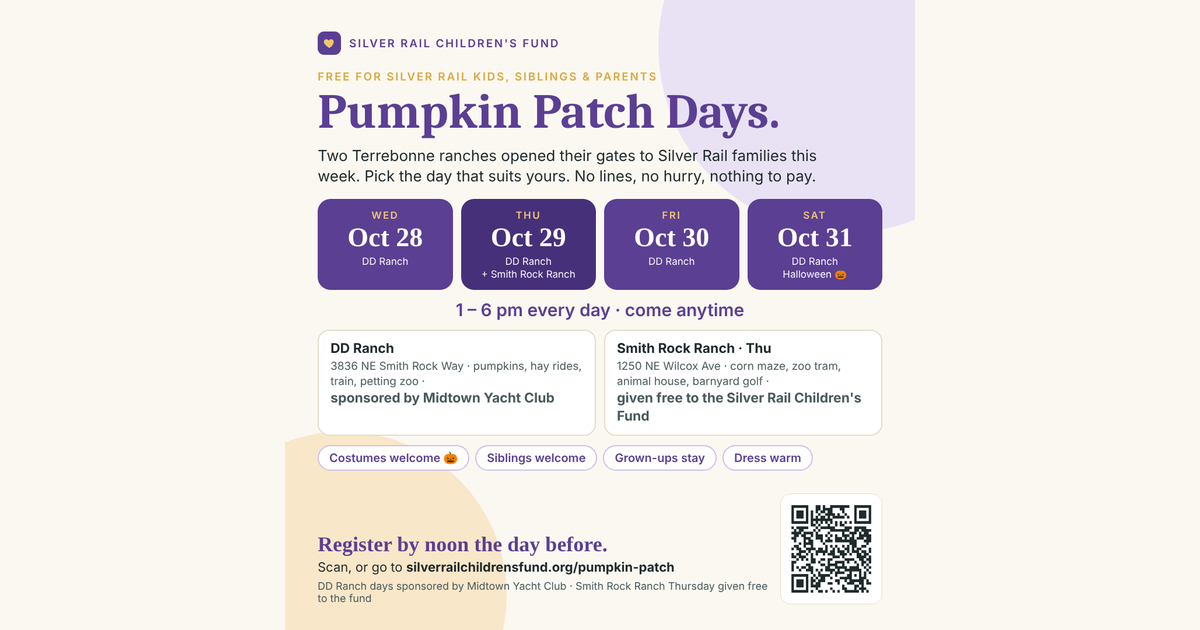
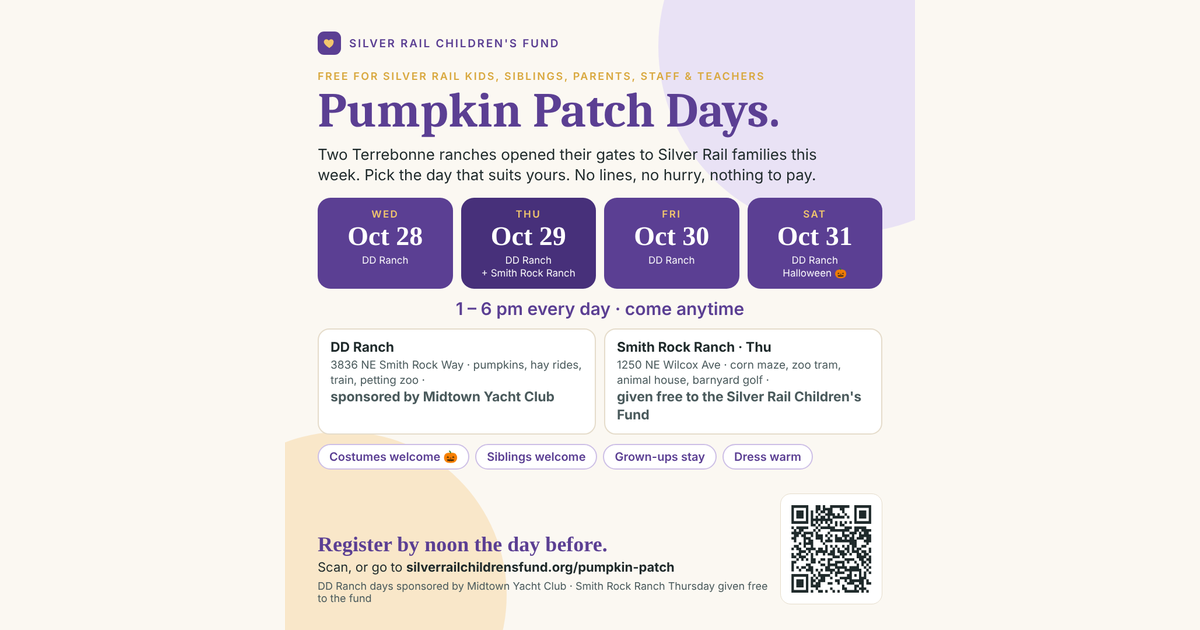
Staff and teachers and their children free too

diff --git a/pumpkin-patch.html b/pumpkin-patch.html
@@ -175,7 +175,7 @@ footer.sf .sf-legal a{color:var(--ink-2)}
   <div class="wrap">
     <div class="eyebrow">Pumpkin Patch Days · Terrebonne</div>
     <h1>Four afternoons at the patch, for Silver Rail families.</h1>
-    <p class="lede">Two Terrebonne ranches have opened their gates to Silver Rail families this week, <b>1 pm to 6 pm each day, free for Silver Rail kids, their siblings, and their parents</b>. <b>DD Ranch</b> is hosting Wednesday through Saturday, October 28–31, with Silver Rail kids' admission paid by Midtown Yacht Club. <b>Smith Rock Ranch</b> is hosting Thursday, October 29, as an in-kind donation to the fund. Pick the day that works best for your family. Come as you are.</p>
+    <p class="lede">Two Terrebonne ranches have opened their gates to Silver Rail families this week, <b>1 pm to 6 pm each day, free for Silver Rail kids, their siblings, and their parents, and for Silver Rail staff and teachers and their children</b>. <b>DD Ranch</b> is hosting Wednesday through Saturday, October 28–31, with Silver Rail kids' admission paid by Midtown Yacht Club. <b>Smith Rock Ranch</b> is hosting Thursday, October 29, as an in-kind donation to the fund. Pick the day that works best for your family. Come as you are.</p>
     <p class="lede" style="font-size:1.05rem">Why a pumpkin patch? Because for a child who was at Silver Rail on October 15, an ordinary fall afternoon with classmates is not a break from recovery. It is recovery. These are the fund's first outings, and they're the ones we set out to make happen on day one.</p>
     <a class="btn" href="#register">Register your family</a>
   </div>
@@ -186,18 +186,18 @@ footer.sf .sf-legal a{color:var(--ink-2)}
     <h2>Pick your day.</h2>
     <p class="note" style="max-width:720px">Pick the one day that suits your family best. Each day has a limit so the ranches can keep it unhurried; when a day fills, it'll show here as full.</p>
     <div class="sess" style="max-width:1140px;grid-template-columns:repeat(auto-fit,minmax(240px,1fr))">
-      <div class="card open"><span class="tag go">Open</span><b>Wed, Oct 28</b><p>1:00 – 6:00 pm<br>DD Ranch<br>3836 NE Smith Rock Way, Terrebonne<br>Free for Silver Rail kids, siblings &amp; parents · sponsored by Midtown Yacht Club</p></div>
-      <div class="card open"><span class="tag go">Open</span><b>Thu, Oct 29</b><p>1:00 – 6:00 pm<br>DD Ranch<br>3836 NE Smith Rock Way, Terrebonne<br>Free for Silver Rail kids, siblings &amp; parents · sponsored by Midtown Yacht Club</p></div>
-      <div class="card open"><span class="tag go">Open</span><b>Thu, Oct 29</b><p>1:00 – 6:00 pm<br>Smith Rock Ranch<br>1250 NE Wilcox Ave, Terrebonne<br>Free for Silver Rail kids, siblings &amp; parents · a gift from Smith Rock Ranch to the fund</p></div>
-      <div class="card open"><span class="tag go">Open</span><b>Fri, Oct 30</b><p>1:00 – 6:00 pm<br>DD Ranch<br>3836 NE Smith Rock Way, Terrebonne<br>Free for Silver Rail kids, siblings &amp; parents · sponsored by Midtown Yacht Club</p></div>
-      <div class="card open"><span class="tag go">Open</span><b>Sat, Oct 31</b><p>1:00 – 6:00 pm · Halloween<br>DD Ranch<br>3836 NE Smith Rock Way, Terrebonne<br>Free for Silver Rail kids, siblings &amp; parents · sponsored by Midtown Yacht Club</p></div>
+      <div class="card open"><span class="tag go">Open</span><b>Wed, Oct 28</b><p>1:00 – 6:00 pm<br>DD Ranch<br>3836 NE Smith Rock Way, Terrebonne<br>Free for Silver Rail kids, siblings, parents, staff &amp; teachers · sponsored by Midtown Yacht Club</p></div>
+      <div class="card open"><span class="tag go">Open</span><b>Thu, Oct 29</b><p>1:00 – 6:00 pm<br>DD Ranch<br>3836 NE Smith Rock Way, Terrebonne<br>Free for Silver Rail kids, siblings, parents, staff &amp; teachers · sponsored by Midtown Yacht Club</p></div>
+      <div class="card open"><span class="tag go">Open</span><b>Thu, Oct 29</b><p>1:00 – 6:00 pm<br>Smith Rock Ranch<br>1250 NE Wilcox Ave, Terrebonne<br>Free for Silver Rail kids, siblings, parents, staff &amp; teachers · a gift from Smith Rock Ranch to the fund</p></div>
+      <div class="card open"><span class="tag go">Open</span><b>Fri, Oct 30</b><p>1:00 – 6:00 pm<br>DD Ranch<br>3836 NE Smith Rock Way, Terrebonne<br>Free for Silver Rail kids, siblings, parents, staff &amp; teachers · sponsored by Midtown Yacht Club</p></div>
+      <div class="card open"><span class="tag go">Open</span><b>Sat, Oct 31</b><p>1:00 – 6:00 pm · Halloween<br>DD Ranch<br>3836 NE Smith Rock Way, Terrebonne<br>Free for Silver Rail kids, siblings, parents, staff &amp; teachers · sponsored by Midtown Yacht Club</p></div>
     </div>
     <div class="keep" style="margin-top:26px;max-width:1140px">
       <div>
         <h3>DD Ranch · Wed–Sat · sponsored by Midtown Yacht Club</h3>
         <ul>
           <li>Pumpkin patch, hay rides, train rides, petting zoo, pony rides, and the rest of the ranch's fall setup. Food trucks on site most days.</li>
-          <li>Admission for Silver Rail kids, their siblings, and their parents is paid by <a href="https://www.midtownyachtclub.com/" target="_blank" rel="noopener">Midtown Yacht Club</a>, who pledged the fund's first outing before the fund had a bank account.</li>
+          <li>Admission for Silver Rail kids, their siblings, and their parents, and for Silver Rail staff and teachers and their children, is paid by <a href="https://www.midtownyachtclub.com/" target="_blank" rel="noopener">Midtown Yacht Club</a>, who pledged the fund's first outing before the fund had a bank account.</li>
           <li>Nothing to pay at the gate. Give your family name at will-call and head in.</li>
           <li>About 35 minutes north of Bend via Hwy 97. Open to the public too; weekday afternoons are quiet.</li>
         </ul>
@@ -206,7 +206,7 @@ footer.sf .sf-legal a{color:var(--ink-2)}
         <h3>Smith Rock Ranch · Thursday · given free to the fund</h3>
         <ul>
           <li>The corn maze, the zoo tram, the animal house, barnyard golf, and the Snoopy ride. Not running Thursday: hayride and pony rides (staffing), and the pumpkin cannons and shooting gallery, which the ranch is keeping silent out of care for the children most affected and anyone for whom a sudden loud sound is too much right now.</li>
-          <li>Smith Rock Ranch is giving this day to the Silver Rail Children's Fund for free. Silver Rail kids, their siblings, and their parents all come in free; every Silver Rail student also gets two maze tickets and three activity tokens as the ranch's gift.</li>
+          <li>Smith Rock Ranch is giving this day to the Silver Rail Children's Fund for free. Silver Rail kids, their siblings, and their parents come in free, and so do Silver Rail staff and teachers and their children; every Silver Rail student also gets two maze tickets and three activity tokens as the ranch's gift.</li>
           <li>The ranch said yes in the middle of its busiest week and a family emergency of its own. We won't forget it.</li>
         </ul>
       </div>
@@ -227,7 +227,7 @@ footer.sf .sf-legal a{color:var(--ink-2)}
   <div class="wrap">
     <div class="eyebrow">Register</div>
     <h2>Tell us your day.</h2>
-    <p class="note" style="max-width:640px">One form per family. Register by <b>noon the day before</b> so we can give the ranch a headcount and have you on the will-call list. Your answers go to the fund's own private Google Workspace and nowhere else. Not registered with the fund yet? That's fine; this form is all you need this week.</p>
+    <p class="note" style="max-width:640px">One form per family. Register by <b>noon the day before</b> so we can give the ranch a headcount and have you on the will-call list. Your answers go to the fund's own private Google Workspace and nowhere else. Not registered with the fund yet? That's fine; this form is all you need this week. Silver Rail staff and teachers: use the same form and pick the staff option.</p>
     <div class="kids" style="max-width:720px;margin-bottom:18px">
       <strong>What you're agreeing to when you register</strong>
       <p style="margin:8px 0 0;font-size:.95rem;color:var(--ink-2)">The form includes this short acknowledgment. It's here so you can read it first.</p>
